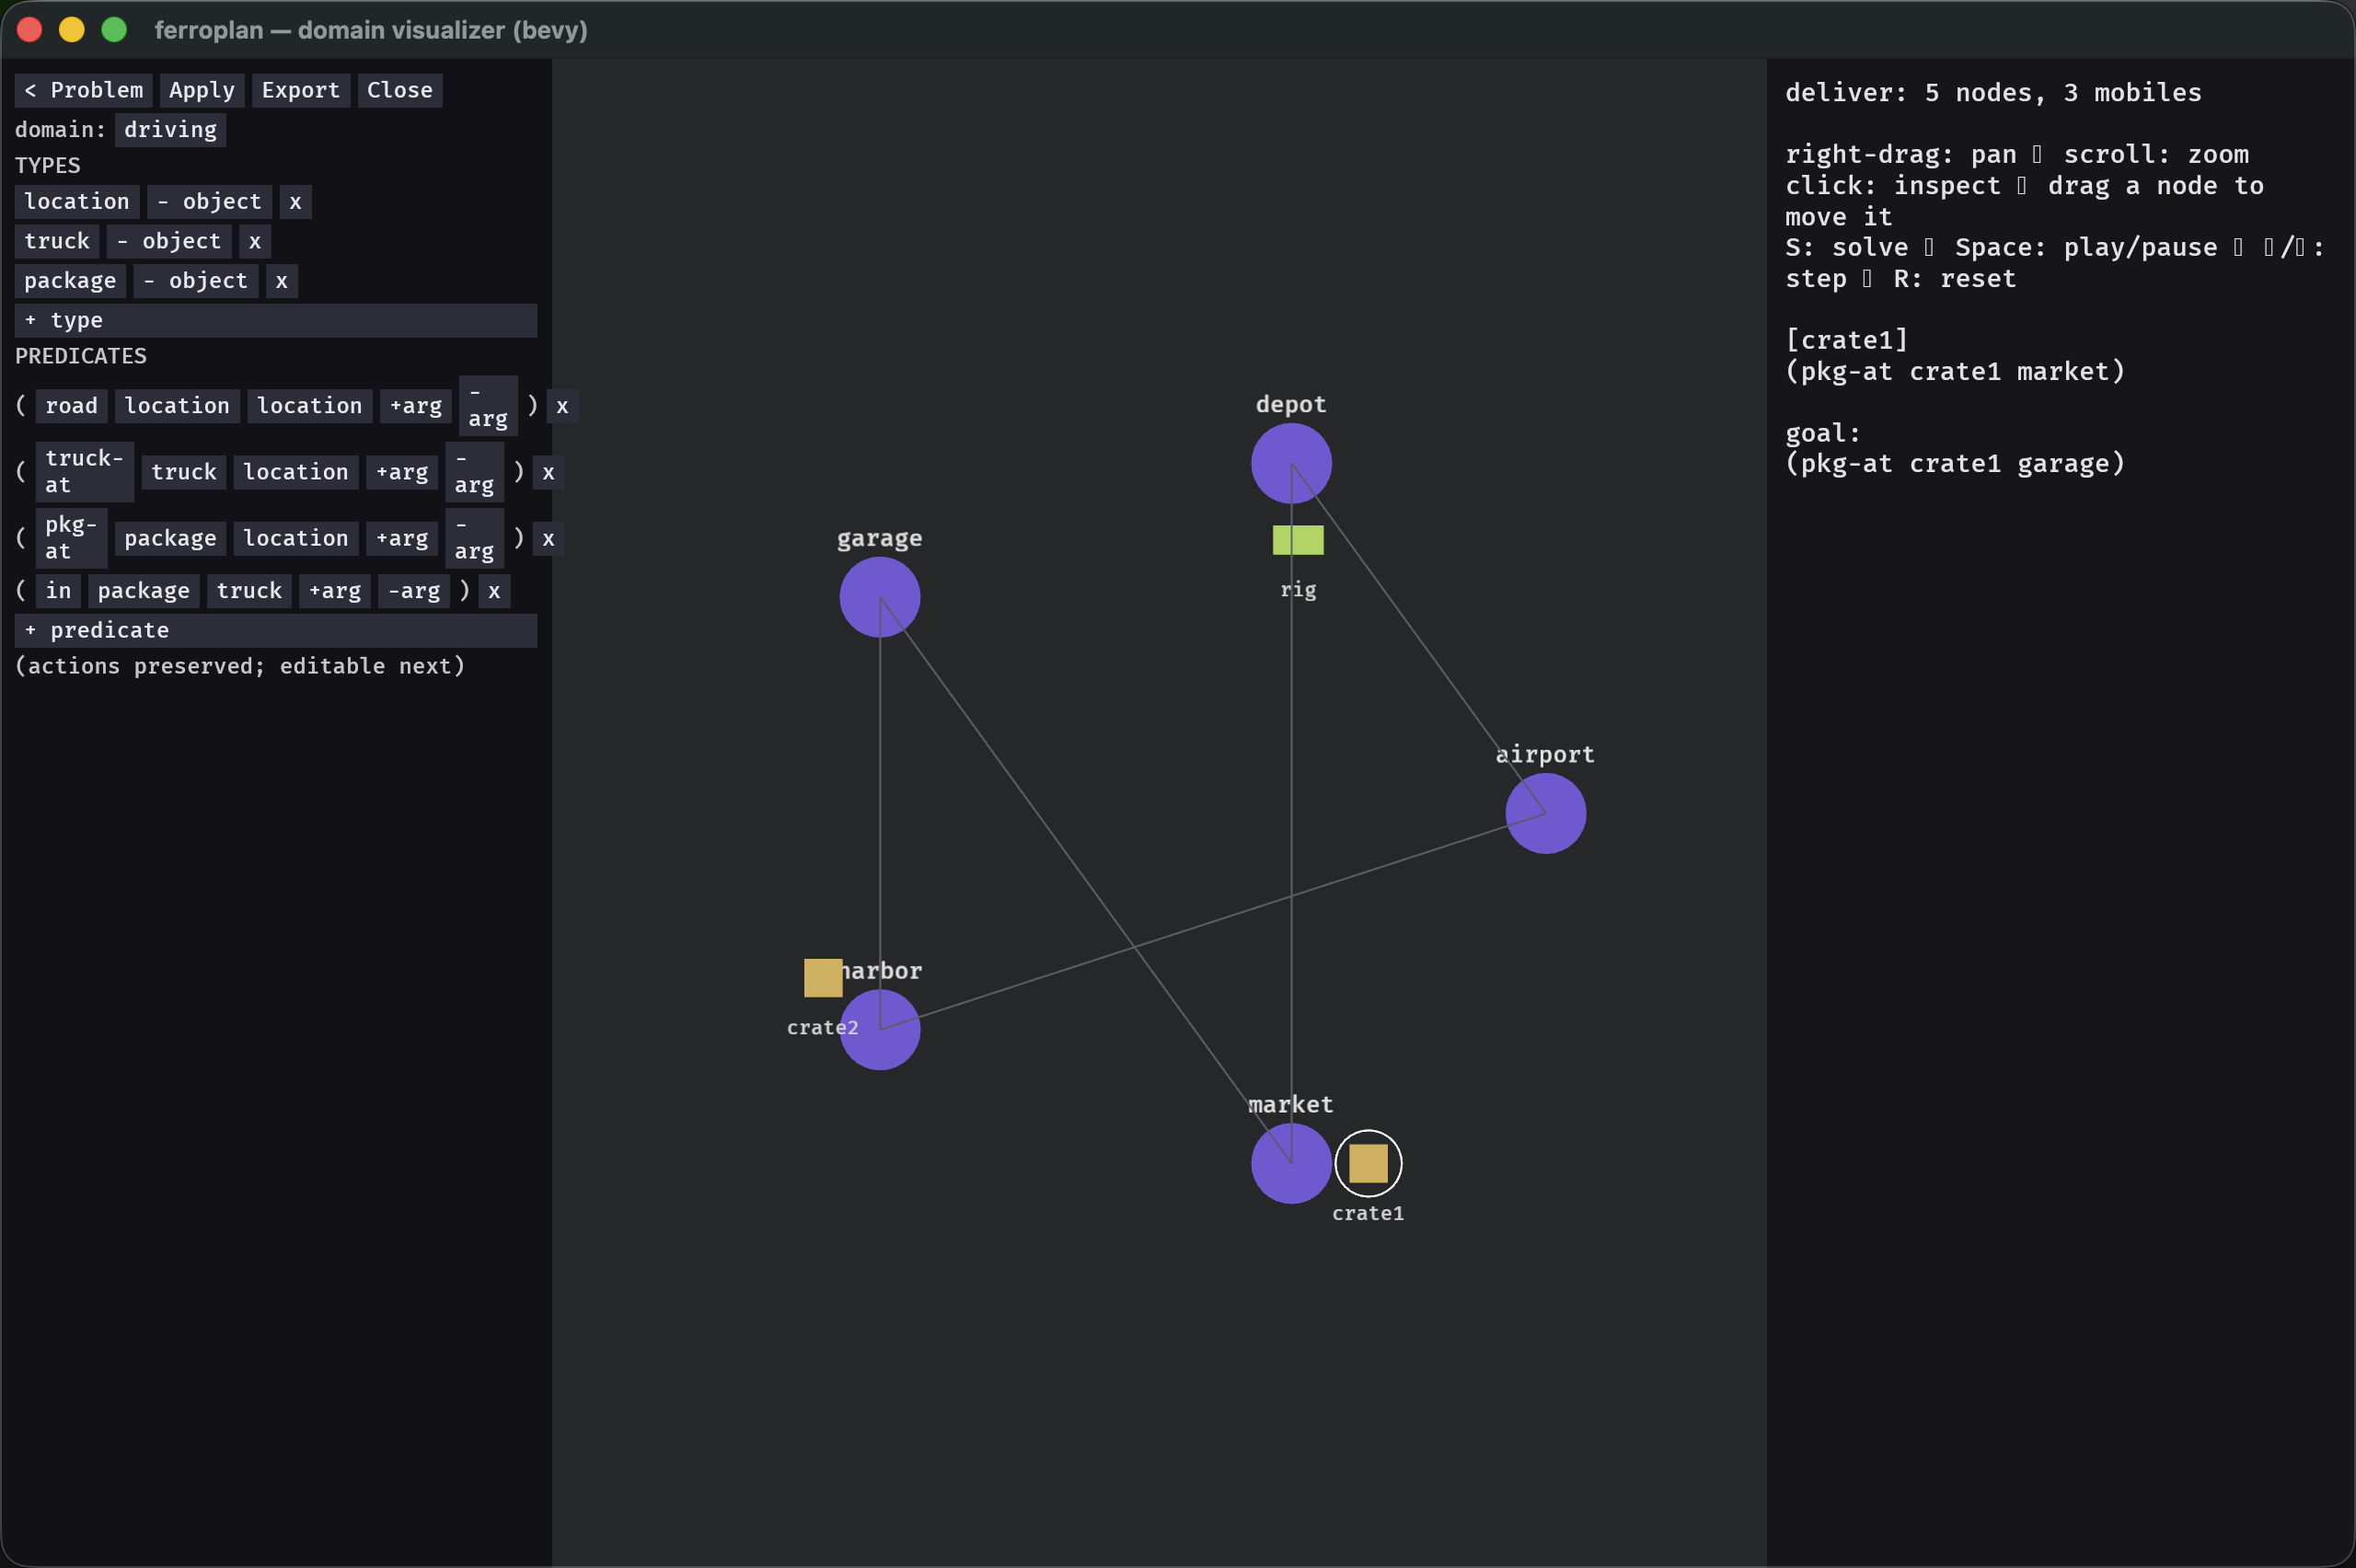
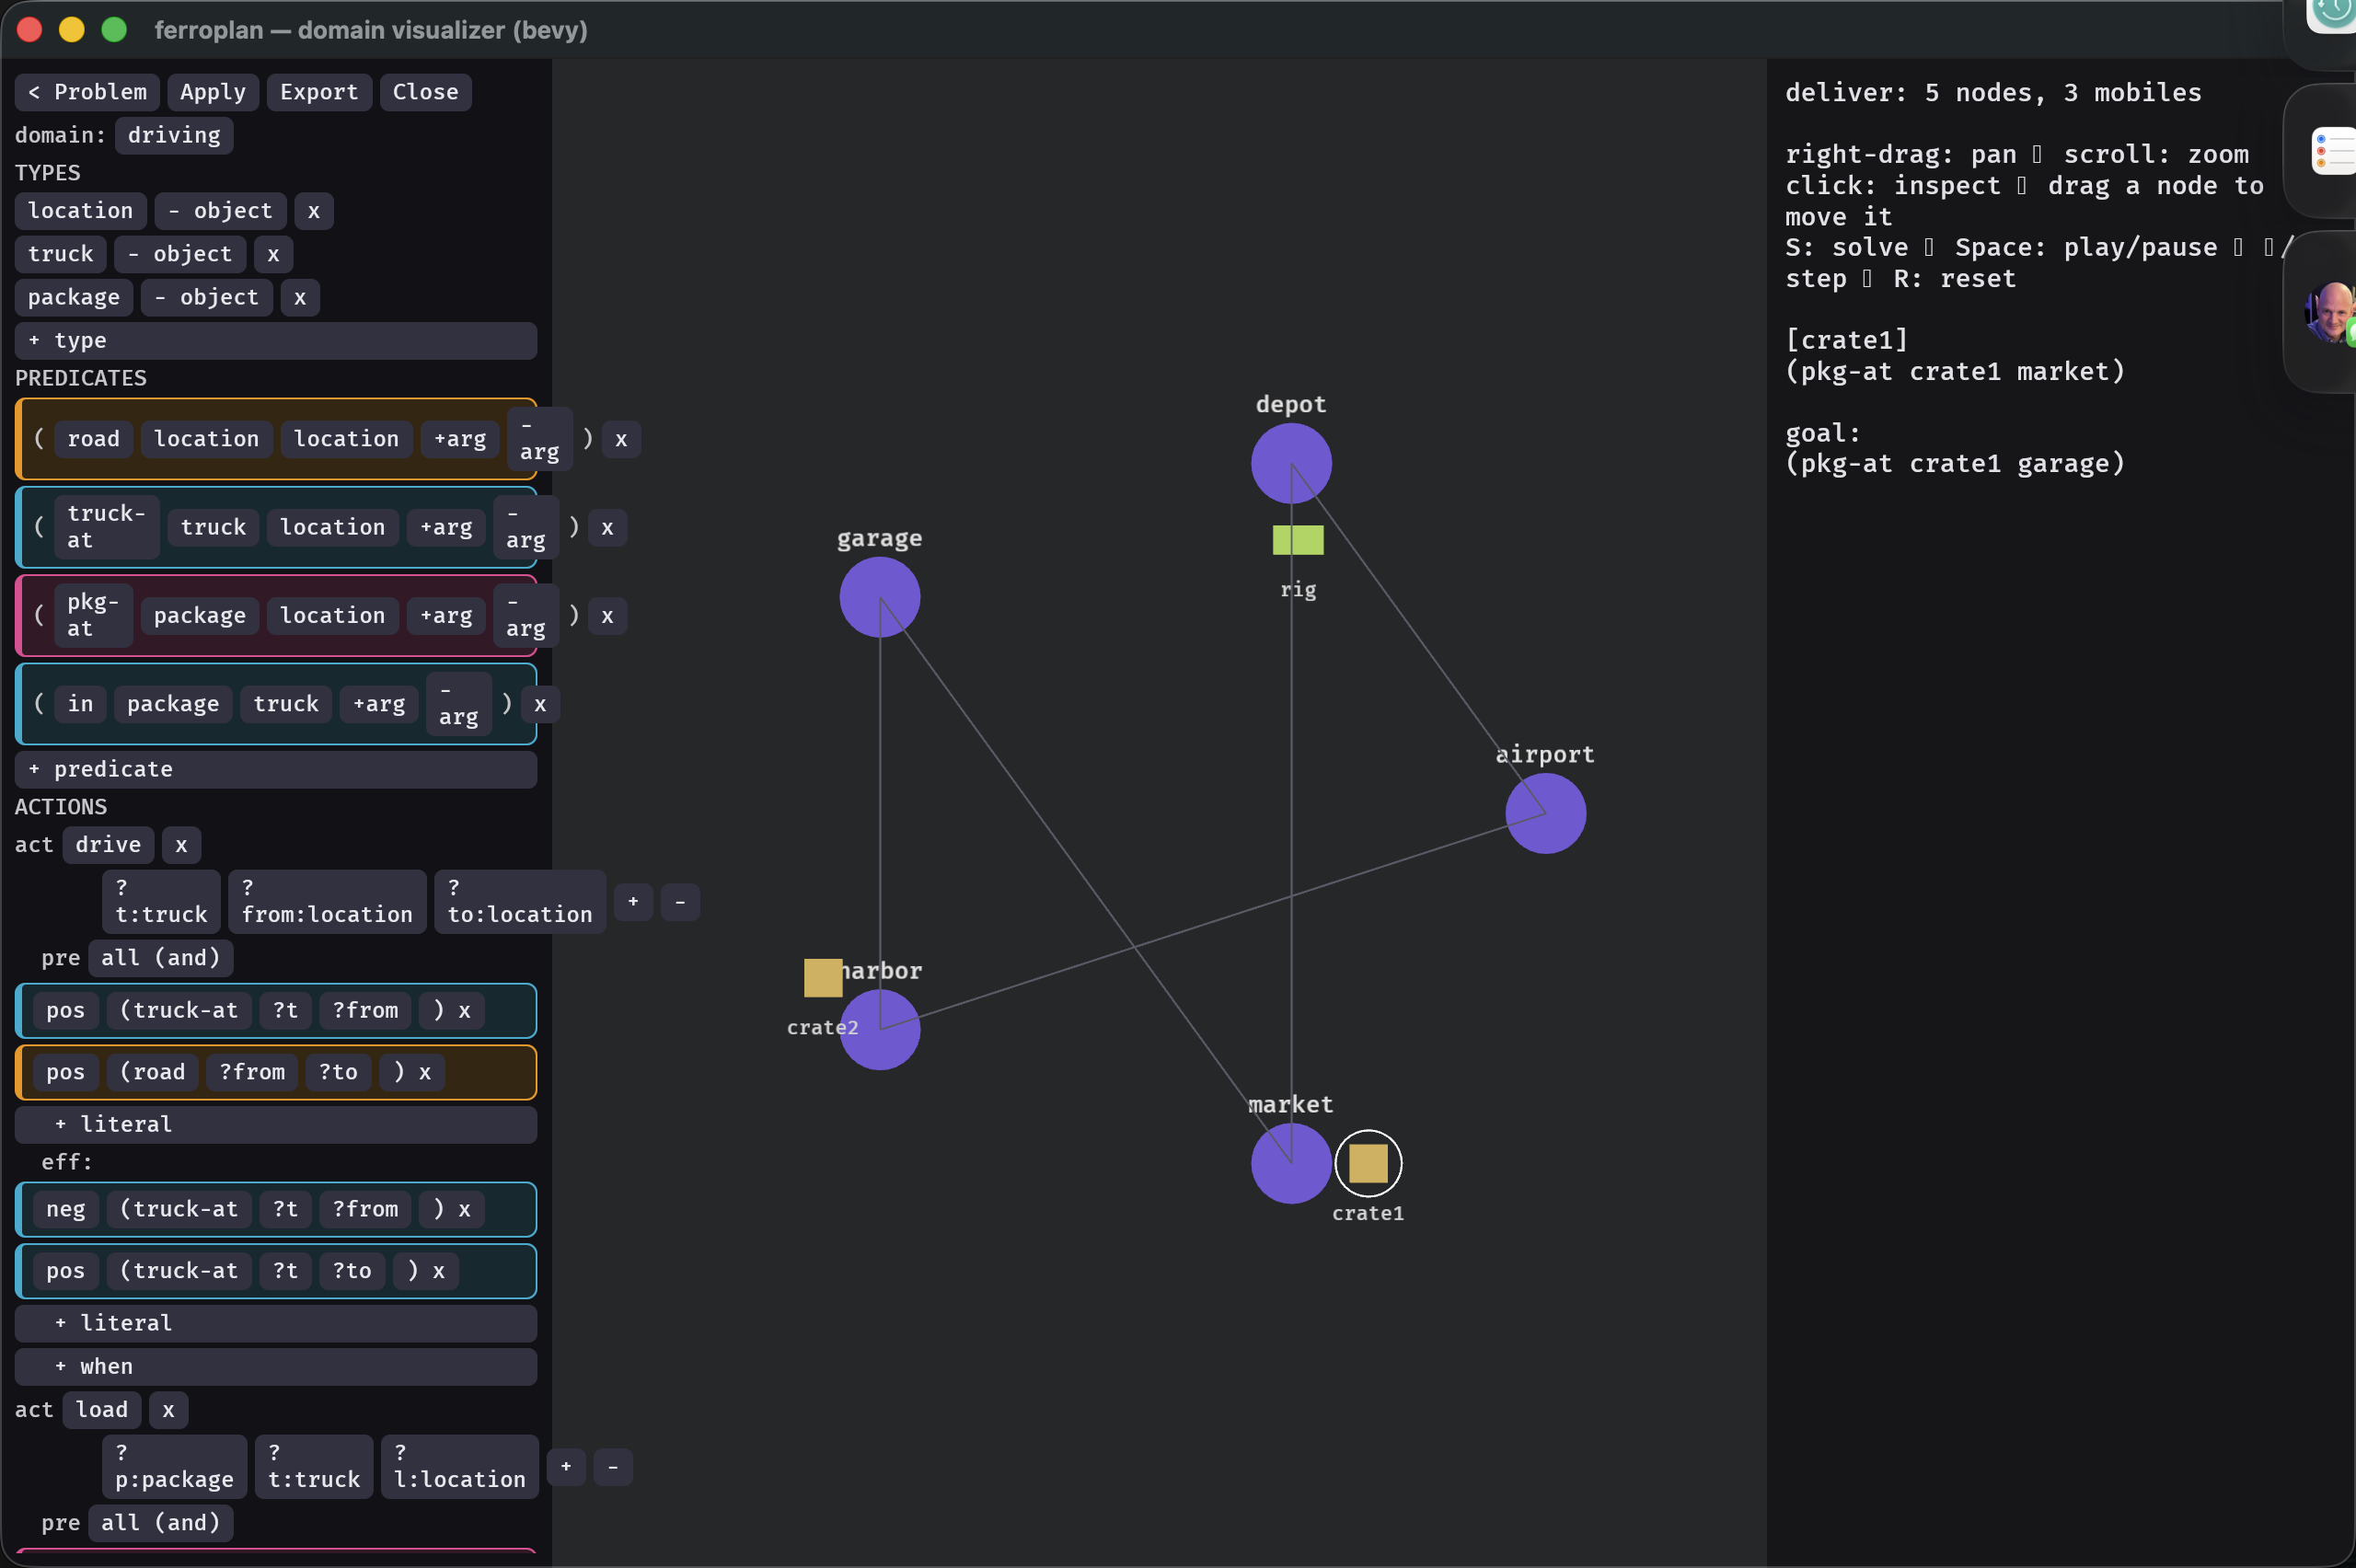
bevy editor: Blockly-style color-coded block cards + refreshed screenshots
The editor read as a flat chip-form, not the interlocking-block look "Blockly"
evokes. Now each object/fact/predicate/action-literal renders as a rounded card
with a thick colored left edge, via block_color(key) -> (fill, accent): a stable
per-name palette so each predicate/type is its own color. Objects are colored by
type, facts + domain predicates + action pre/eff literals by predicate name — so a
`road` literal is the same orange as the `road` predicate block. Buttons are now
rounded pills. Behavior (click-to-cycle, drag-snap) is unchanged.

Refreshed book/src/images/editor-{problem,domain,actions}.png with the new look.

Claude-Session: https://claude.ai/code/session_01TVkCgy3QUuZoZZ8c8d7txN

diff --git a/crates/ferroplan-bevy/src/blocks.rs b/crates/ferroplan-bevy/src/blocks.rs
@@ -1234,7 +1234,7 @@ pub fn rebuild(
 fn build_problem(p: &mut ChildBuilder, editor: &Editor) {
     label(p, "OBJECTS");
     for (i, (name, ty)) in editor.objects.iter().enumerate() {
-        row(p, |r| {
+        block_card(p, ty, |r| {
             label(r, name);
             btn(r, format!(": {ty}"), Act::CycleType(i));
             btn(r, "x", Act::RemoveObject(i));
@@ -1333,7 +1333,7 @@ fn build_domain(p: &mut ChildBuilder, editor: &Editor) {
 
     label(p, "PREDICATES");
     for (i, (name, args)) in editor.dpreds.iter().enumerate() {
-        row(p, |r| {
+        block_card(p, name, |r| {
             label(r, "(");
             btn(
                 r,
@@ -1419,7 +1419,7 @@ fn lit_section(p: &mut ChildBuilder, i: usize, loc: LitLoc, title: &str, lits: &
         label(p, title);
     }
     for (k, (neg, pred, args)) in lits.iter().enumerate() {
-        row(p, |r| {
+        block_card(p, pred, |r| {
             btn(
                 r,
                 if *neg { "neg" } else { "pos" },
@@ -1451,7 +1451,7 @@ fn fact_row(p: &mut ChildBuilder, goal: bool, i: usize, pred: &str, args: &[Stri
     } else {
         DragKind::Init(i)
     };
-    row(p, |r| {
+    block_card(p, pred, |r| {
         grip(r, kind);
         btn(r, format!("({pred}"), Act::CyclePred(goal, i));
         for (s, a) in args.iter().enumerate() {
@@ -1486,10 +1486,11 @@ fn btn(p: &mut ChildBuilder, text: impl Into<String>, act: Act) {
     p.spawn((
         Button,
         Node {
-            padding: UiRect::axes(Val::Px(5.0), Val::Px(2.0)),
+            padding: UiRect::axes(Val::Px(7.0), Val::Px(3.0)),
             ..default()
         },
-        BackgroundColor(Color::srgb(0.2, 0.2, 0.26)),
+        BackgroundColor(Color::srgb(0.22, 0.22, 0.29)),
+        BorderRadius::all(Val::Px(5.0)),
         act,
     ))
     .with_children(|b| {
@@ -1502,6 +1503,52 @@ fn btn(p: &mut ChildBuilder, text: impl Into<String>, act: Act) {
             TextColor(Color::srgb(0.92, 0.92, 0.95)),
         ));
     });
+}
+
+/// A stable per-key color (fill, accent) so each predicate / type reads as its
+/// own kind of block — the Blockly-style visual cue.
+fn block_color(key: &str) -> (Color, Color) {
+    const P: [([f32; 3], [f32; 3]); 6] = [
+        ([0.10, 0.16, 0.27], [0.29, 0.62, 0.93]), // blue
+        ([0.09, 0.20, 0.13], [0.16, 0.77, 0.40]), // green
+        ([0.25, 0.17, 0.05], [0.96, 0.62, 0.05]), // orange
+        ([0.17, 0.12, 0.27], [0.58, 0.40, 0.96]), // purple
+        ([0.25, 0.10, 0.18], [0.93, 0.30, 0.62]), // pink
+        ([0.05, 0.19, 0.22], [0.05, 0.72, 0.84]), // teal
+    ];
+    let h = key
+        .bytes()
+        .fold(0u32, |a, b| a.wrapping_mul(31).wrapping_add(b as u32));
+    let (f, a) = P[(h as usize) % P.len()];
+    (
+        Color::srgba(f[0], f[1], f[2], 0.92),
+        Color::srgb(a[0], a[1], a[2]),
+    )
+}
+
+/// A rounded, color-coded block card with a thick left accent edge (Blockly look)
+/// wrapping a row of fields. `key` picks the color (predicate or type name).
+fn block_card(p: &mut ChildBuilder, key: &str, f: impl FnOnce(&mut ChildBuilder)) {
+    let (fill, accent) = block_color(key);
+    p.spawn((
+        Node {
+            flex_direction: FlexDirection::Row,
+            column_gap: Val::Px(4.0),
+            align_items: AlignItems::Center,
+            padding: UiRect::axes(Val::Px(6.0), Val::Px(4.0)),
+            border: UiRect {
+                left: Val::Px(4.0),
+                top: Val::Px(1.0),
+                right: Val::Px(1.0),
+                bottom: Val::Px(1.0),
+            },
+            ..default()
+        },
+        BackgroundColor(fill),
+        BorderColor(accent),
+        BorderRadius::all(Val::Px(6.0)),
+    ))
+    .with_children(f);
 }
 
 #[cfg(test)]